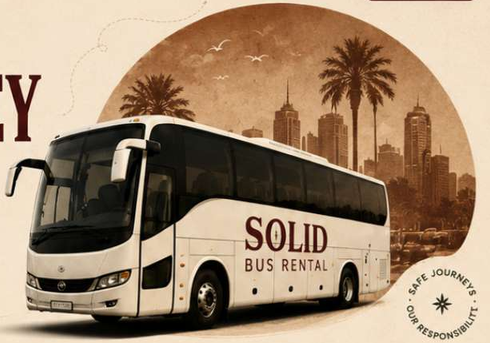
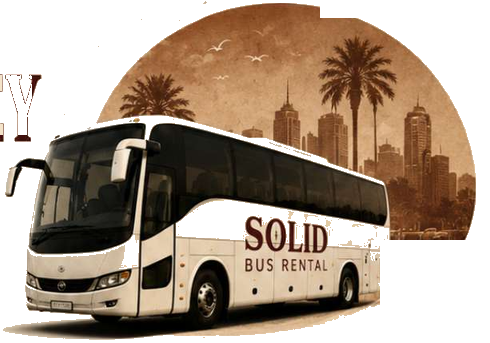
Set Hero section image to hero_bus_art_full_no_badge.png

diff --git a/src/pages/HomePage.tsx b/src/pages/HomePage.tsx
@@ -163,7 +163,7 @@ export const HomePage: React.FC<HomePageProps> = ({ setActivePage, onOpenBooking
             <div className="lg:col-span-6 flex justify-center lg:justify-end">
               <div className="relative w-full max-w-[760px] lg:max-w-none group">
                 <img
-                  src="/home_assets/hero_bus_art.png"
+                  src="/home_assets/hero_bus_art_full_no_badge.png"
                   alt="Solid Bus Rental Qatar Coach & Arch Visual"
                   className="w-full h-auto object-contain filter drop-shadow-[0_16px_32px_rgba(74,26,16,0.18)] transition-all duration-500 group-hover:scale-[1.015]"
                 />
